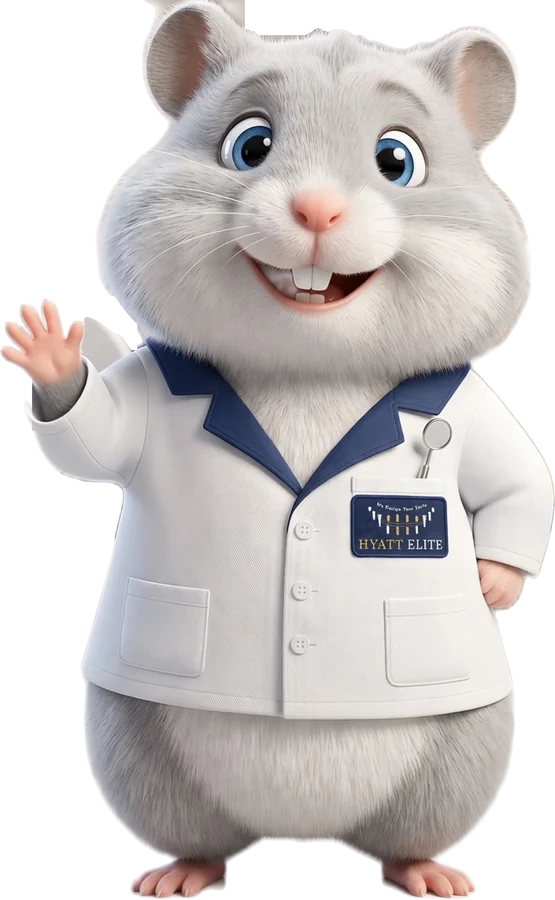
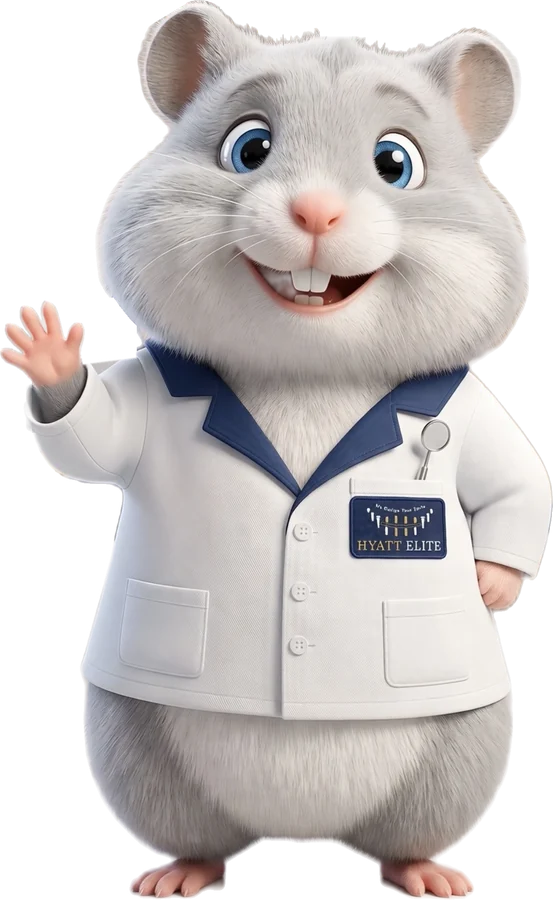
تنظيف الشخصية وتغيير اسم اللعبة
- Fix the cut-out: restore the full ears, remove the lamp leftovers
  above the head and the chair pieces between the raised hand and shoulder
- Rename the game to مغامرات دكتور حمص في العيادة
- Move the Twemoji credit from the footer into a source comment and tw/CREDITS.txt

Claude-Session: https://claude.ai/code/session_01VKAgQfvBLsinP8X6AtGzn4

diff --git a/dr-homos-game/index.html b/dr-homos-game/index.html
@@ -3,7 +3,7 @@
 <head>
 <meta charset="UTF-8" />
 <meta name="viewport" content="width=device-width, initial-scale=1.0, viewport-fit=cover" />
-<title>مغامرة د. حمص | حياة إيليت</title>
+<title>مغامرات دكتور حمص في العيادة | حياة إيليت</title>
 <meta name="description" content="لعبة تعليمية للأطفال مع د. حمص طبيب الأسنان في عيادة حياة إيليت — تعلّم تحافظ على أسنانك وتحب زيارة طبيب الأسنان." />
 <meta property="og:image" content="homos.jpg" />
 <meta name="theme-color" content="#0c1424" />
@@ -65,7 +65,7 @@ html[dir="rtl"] .progress{flex-direction:row-reverse}
 .screen.on{display:flex}
 @keyframes enter{from{opacity:0;transform:translateY(14px)}to{opacity:1;transform:none}}
 h1,h2{font-family:var(--f-display);text-wrap:balance;margin:0;line-height:1.15}
-h1{font-size:clamp(34px,9vw,48px);color:var(--gold-hi);text-shadow:0 3px 0 rgba(0,0,0,.35)}
+h1{font-size:clamp(30px,8vw,44px);color:var(--gold-hi);text-shadow:0 3px 0 rgba(0,0,0,.35)}
 h2{font-size:clamp(21px,5.6vw,26px);color:#fff}
 .sub{font-size:18px;color:var(--muted);font-weight:700;margin:0}
 .tag{display:inline-flex;align-items:center;gap:6px;background:rgba(201,162,74,.14);color:var(--gold-hi);border:1.5px solid rgba(201,162,74,.55);border-radius:999px;padding:3px 14px;font-weight:800;font-size:14px;letter-spacing:.02em}
@@ -79,7 +79,7 @@ h2{font-size:clamp(21px,5.6vw,26px);color:#fff}
 .link{color:var(--gold-hi);font-weight:700;font-size:15px}
 
 /* ---------- start ---------- */
-.hero{position:relative;width:min(300px,74vw);aspect-ratio:1/1.12;display:flex;align-items:flex-end;justify-content:center;margin-top:4px}
+.hero{position:relative;width:min(270px,64vw);aspect-ratio:1/1.12;display:flex;align-items:flex-end;justify-content:center;margin-top:4px}
 .hero:before{content:"";position:absolute;inset:8% 4% 0;border-radius:50%;background:radial-gradient(circle,rgba(241,213,144,.55),rgba(201,162,74,.15) 55%,transparent 70%)}
 .hero .ring{position:absolute;inset:14% 10% 4%;border-radius:50%;border:3px dashed rgba(241,213,144,.35);animation:spin 30s linear infinite}
 .hero .homos{position:relative;height:100%;filter:drop-shadow(0 14px 18px rgba(0,0,0,.45));animation:float 3.2s ease-in-out infinite}
@@ -308,7 +308,8 @@ html[dir="rtl"] .ouch{direction:rtl}
     <a class="link" href="../" data-t="backSite"></a>
   </section>
 
-  <div class="foot"><span data-t="foot"></span><br />Emoji art: <a href="https://github.com/jdecked/twemoji" target="_blank" rel="noopener">Twemoji</a> (CC-BY 4.0)</div>
+  <!-- Emoji graphics in tw/ are Twemoji by Twitter, Inc. and other contributors, licensed CC-BY 4.0: https://github.com/jdecked/twemoji -->
+  <div class="foot"><span data-t="foot"></span></div>
 </div>
 
 <div class="fb" id="fb" role="dialog" aria-modal="true">
@@ -331,7 +332,7 @@ html[dir="rtl"] .ouch{direction:rtl}
    ========================================================= */
 var T = {
   ar:{
-    title:"مغامرة د. حمص", subtitle:"ساعد د. حمص واحمِ ابتسامتك!",
+    title:"مغامرات دكتور حمص في العيادة", subtitle:"ساعد د. حمص واحمِ ابتسامتك!",
     namePh:"اكتب اسمك هنا ✏", play:"يلّا نلعب!", levels:"مرحلة", ageTag:"للأطفال من ٤ سنين",
     docName:"د. حمص", hero:"يا بطل",
     lvl1tag:"المرحلة ١ · في الشارع",
@@ -357,7 +358,7 @@ var T = {
     foot:"لعبة تعليمية من عيادة حياة إيليت لطب الأسنان"
   },
   en:{
-    title:"Dr. Homos Adventure", subtitle:"Help Dr. Homos and protect your smile!",
+    title:"Dr. Homos's Clinic Adventures", subtitle:"Help Dr. Homos and protect your smile!",
     namePh:"Type your name ✏", play:"Let's play!", levels:"levels", ageTag:"For kids 4+",
     docName:"Dr. Homos", hero:"hero",
     lvl1tag:"Level 1 · On the street",
@@ -478,7 +479,7 @@ function nm(s){ return s.replace("{n}", kid ? (lang === "ar" ? "يا " + kid : k
 function applyLang(){
   document.documentElement.lang = lang;
   document.documentElement.dir = lang === "ar" ? "rtl" : "ltr";
-  document.title = lang === "ar" ? "مغامرة د. حمص | حياة إيليت" : "Dr. Homos Adventure | Hyatt Elite";
+  document.title = lang === "ar" ? "مغامرات دكتور حمص في العيادة | حياة إيليت" : "Dr. Homos's Clinic Adventures | Hyatt Elite";
   document.querySelectorAll("[data-t]").forEach(function(el){ el.textContent = t(el.getAttribute("data-t")); });
   $("kidName").placeholder = t("namePh");
   $("langBtn").textContent = lang === "ar" ? "EN" : "ع";
